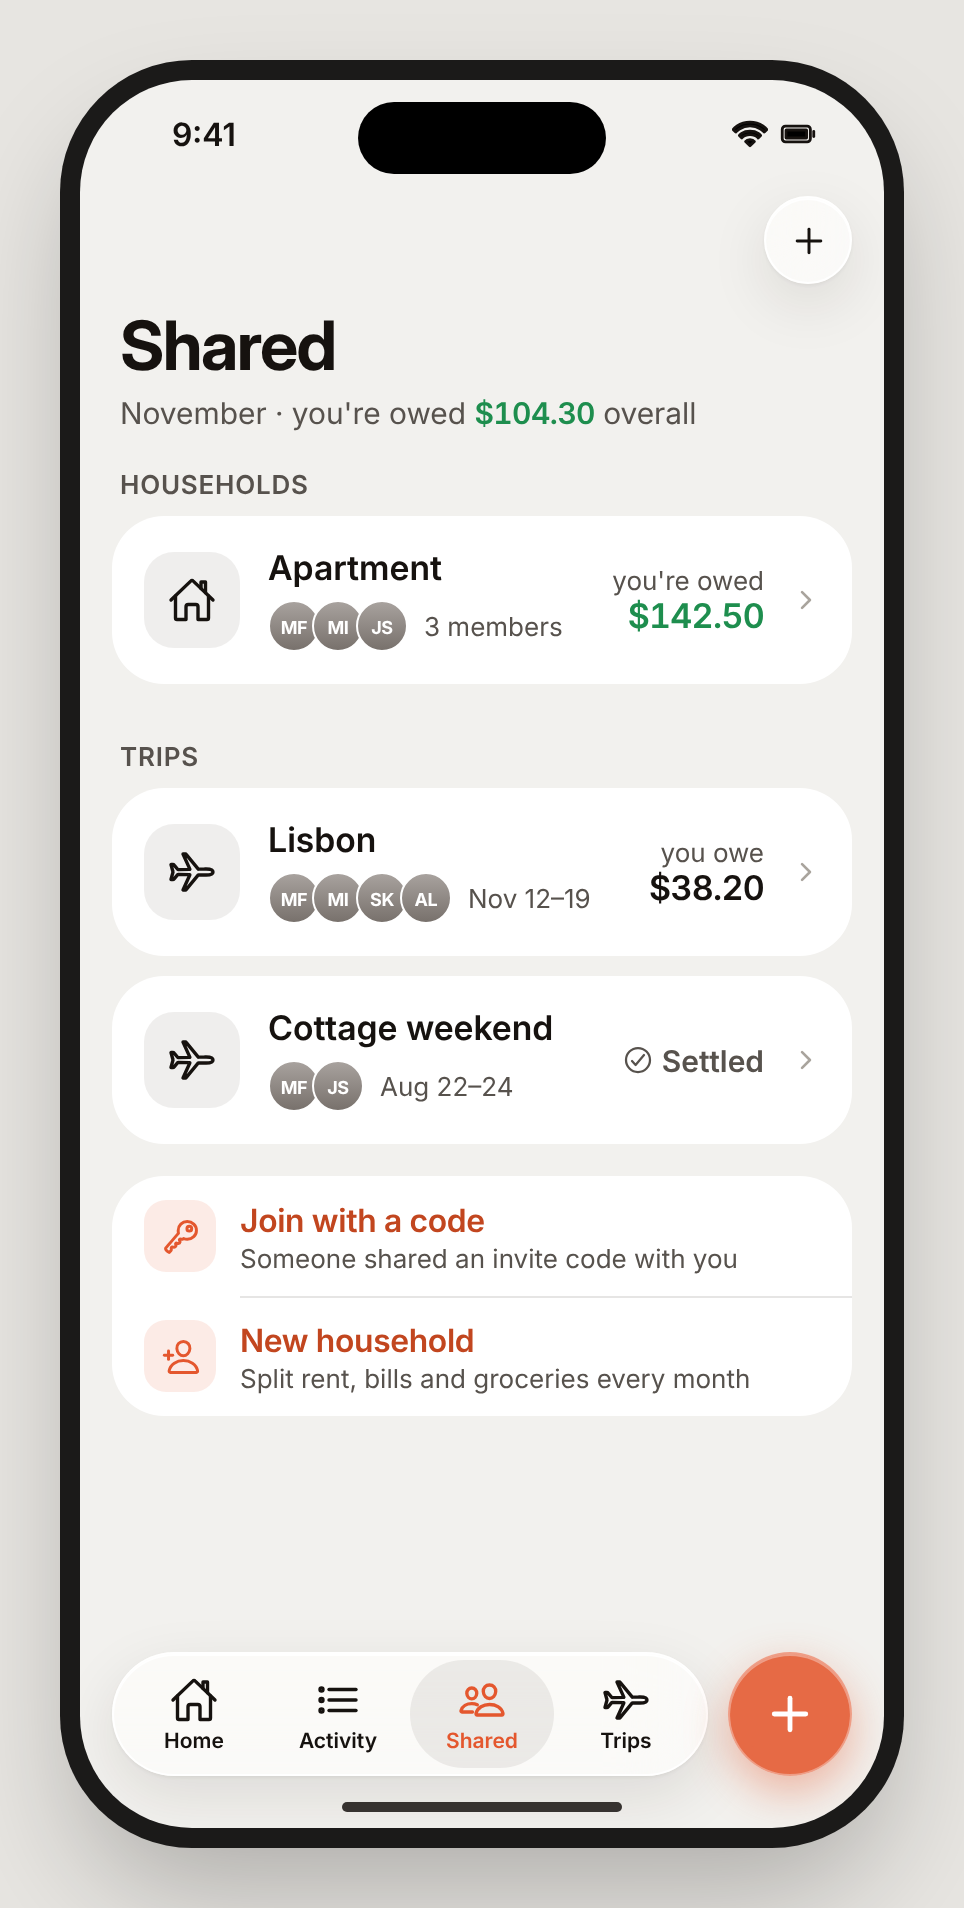
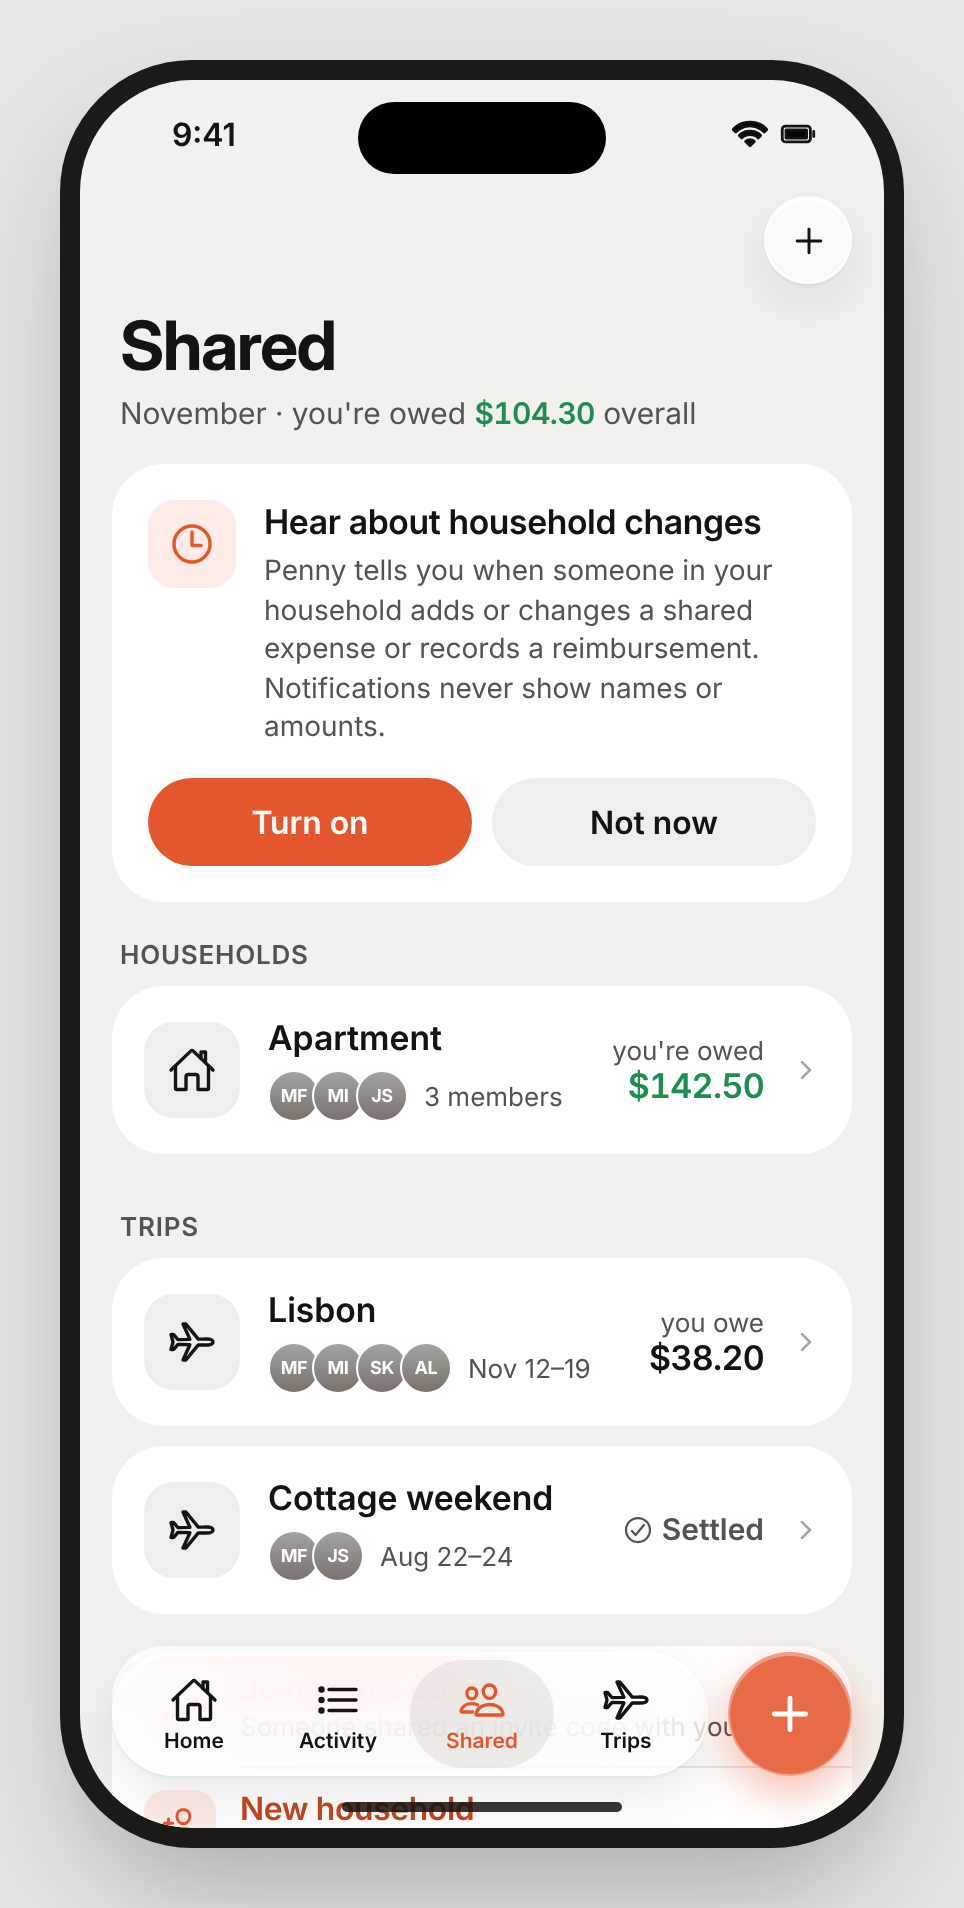
feat(ios): open shared schedules over their household and capture the drafted cards
Recurring opens a shared schedule's form over its household, as the web's
?rule= does, and pauses or stops it with a swipe. The Cards plan gains
captures for the shared expense detail, join with a code, the invite and
the personal trip and its share sheet. iphone-payment-stale and
iphone-shared-list are re-rendered after the owner's card changes.

diff --git a/apps/ios/Packages/PennyKit/Sources/PennyUI/Organize/RecurringViews.swift b/apps/ios/Packages/PennyKit/Sources/PennyUI/Organize/RecurringViews.swift
@@ -7,7 +7,7 @@ import SwiftUI
 /// date and account. Tapping a row opens its page; swiping pauses, resumes or removes it
 /// (removal asks first); + adds a schedule. Shared schedules the account is part of (MAZ-198)
 /// sit with the expenses, marked Shared with the household's name and the account's share, and
-/// open their form here (MAZ-256), since the household page lists only the expenses they add.
+/// open their household with their form (MAZ-256: the household page no longer lists them).
 struct RecurringListView: View {
     @Environment(ShellModel.self) private var shell
     @State private var selection: ScheduleSelection?
@@ -15,8 +15,7 @@ struct RecurringListView: View {
     @State private var removing: RecurringRule?
     @State private var addingSchedule = false
     @State private var failure: SaveFailure?
-    /// A shared schedule being edited, paused or stopped here (MAZ-256).
-    @State private var editingShared: SharedSchedule?
+    /// A shared schedule being paused or stopped here (MAZ-256).
     @State private var stopping: SharedSchedule?
     @State private var sharedFailure: HouseholdFailure?
 
@@ -108,22 +107,21 @@ struct RecurringListView: View {
         } message: { schedule in
             Text("No more expenses are added to \(schedule.household.name) from it. Expenses it already added stay.")
         }
-        .sheet(item: $editingShared, onDismiss: { Task { shared = await shell.households.sharedSchedules() } }) {
-            schedule in
-            SharedScheduleEditor(schedule: schedule).environment(shell)
-        }
         .task { shared = await shell.households.sharedSchedules() }
         .accessibilityIdentifier("screen.recurring")
     }
 
     private func sharedRow(_ schedule: SharedSchedule) -> some View {
         Button {
-            editingShared = schedule
+            // Its household, with the schedule's form open over it (as the web's `?rule=`).
+            let household = schedule.household
+            shell.households.model(for: household.id)?.requestedRuleID = schedule.rule.id
+            shell.navigate { $0.open(household.trip == nil ? .household(id: household.id) : .trip(id: household.id)) }
         } label: {
             SharedScheduleRow(schedule: schedule, today: shell.today)
         }
         .buttonStyle(.plain)
-        // Edited here: the household's page lists the expenses a schedule adds, not the schedules.
+        // Paused or stopped from here too, as personal schedules are.
         .swipeActions(edge: .trailing, allowsFullSwipe: false) {
             Button("Stop repeating", systemImage: "trash", role: .destructive) { stopping = schedule }
                 .accessibilityIdentifier("sharedSchedule.\(schedule.rule.id).remove")
@@ -135,7 +133,7 @@ struct RecurringListView: View {
             .accessibilityIdentifier("sharedSchedule.\(schedule.rule.id).toggle")
         }
         .cardRow()
-        .accessibilityHint("Opens the repeating expense")
+        .accessibilityHint(schedule.household.trip == nil ? "Opens the household" : "Opens the trip")
         .accessibilityIdentifier("sharedSchedule.\(schedule.rule.id)")
     }
 
@@ -202,7 +200,7 @@ struct RecurringListView: View {
 
     static func footer(hasShared: Bool) -> String {
         let personal = "Swipe a schedule to pause or remove it. Removing keeps past entries."
-        return hasShared ? personal + " Shared schedules count only your share; open one to change it." : personal
+        return hasShared ? personal + " Shared schedules open their household and count only your share." : personal
     }
 
     static func sectionTitle(_ kind: EntryKind) -> String { OrganizeText.kindPlural(kind) }
@@ -637,30 +635,5 @@ struct ScheduleDetailView: View {
     static func longDate(_ date: CalendarDate, today: CalendarDate) -> String {
         let format = Date.FormatStyle.dateTime.weekday(.abbreviated).month(.abbreviated).day()
         return DayText.date(date).formatted(date.days(since: today) < 365 ? format : format.year())
-    }
-}
-
-/// A shared schedule's form, opened from Recurring (MAZ-256): its household is read first, so
-/// the form knows the members and the viewer's part.
-private struct SharedScheduleEditor: View {
-    @Environment(ShellModel.self) private var shell
-    let schedule: SharedSchedule
-    @State private var model: HouseholdModel?
-
-    var body: some View {
-        Group {
-            if let model, model.household != nil {
-                SharedExpenseFormSheet(request: .rule(schedule.rule), model: model)
-            } else if let failure = model?.load.failure {
-                PennyStateView(.error, title: "Couldn't open \(schedule.household.name)", message: failure.message)
-            } else {
-                PennyStateView(.loading, title: "Opening \(schedule.household.name)…")
-            }
-        }
-        .task {
-            guard let loaded = shell.households.model(for: schedule.household.id) else { return }
-            if loaded.household == nil { await loaded.refresh() }
-            model = loaded
-        }
     }
 }

diff --git a/apps/ios/PennyUITests/Cards/CardCaptureTests.swift b/apps/ios/PennyUITests/Cards/CardCaptureTests.swift
@@ -345,6 +345,55 @@ final class CardCaptureTests: CardTestCase {
         }
     }
 
+    // MARK: iPhone drafted household and trip cards (MAZ-238, built in MAZ-256)
+
+    @MainActor
+    func test_whenSeeded_IphoneSharedExpenseDetail_ShouldBeCaptured() async throws {
+        try await card("iphone-shared-expense-detail") { card in
+            let seed = try card.seeded()
+            try card.penny.openHousehold(seed.household("maison"))
+            try card.penny.tap(
+                Households.expense(seed.expense("internet")), opening: AccessibilityID.Screen.householdExpense)
+            try card.penny.wait(for: Households.share(seed.userIDs["bea"] ?? ""), timeout: 20)
+        }
+    }
+
+    @MainActor
+    func test_whenSeeded_IphoneJoinCode_ShouldBeCaptured() async throws {
+        try await card("iphone-join-code") { card in
+            try card.penny.openShared()
+            try card.penny.tap(Households.join, opening: Households.Screen.start)
+            // The card's typed code; the keyboard is platform chrome.
+            try card.penny.type("7F3A9C01B2", into: Households.code)
+        }
+    }
+
+    @MainActor
+    func test_whenSeeded_IphoneInvite_ShouldBeCaptured() async throws {
+        try await card("iphone-invite") { card in
+            try card.penny.openHousehold(card.seeded().household("maison"))
+            try card.penny.tap(Households.invite, orIn: Households.more, opening: Households.Screen.invite)
+            try card.penny.wait(for: Households.inviteQR, timeout: 20)
+        }
+    }
+
+    @MainActor
+    func test_whenSeeded_IphoneTripPersonal_ShouldBeCaptured() async throws {
+        try await card("iphone-trip-personal") { card in
+            try card.penny.openTrips()
+            try card.penny.tap(AccessibilityID.Row.trip("t-quebec"), opening: AccessibilityID.Screen.trip)
+        }
+    }
+
+    @MainActor
+    func test_whenSeeded_IphoneTripShare_ShouldBeCaptured() async throws {
+        try await card("iphone-trip-share") { card in
+            try card.penny.openTrips()
+            try card.penny.tap(AccessibilityID.Row.trip("t-quebec"), opening: AccessibilityID.Screen.trip)
+            try card.penny.tap(Trips.share, opening: Trips.Screen.share)
+        }
+    }
+
     // MARK: iPhone trips
 
     @MainActor

diff --git a/apps/ios/Packages/PennyKit/Sources/PennyUI/Households/HouseholdView.swift b/apps/ios/Packages/PennyKit/Sources/PennyUI/Households/HouseholdView.swift
@@ -265,6 +265,8 @@ struct HouseholdPage: View {
                     await refreshTrip()
                 }
             }
+            // A schedule opened from Recurring: its form, once the rules have been read.
+            .onChange(of: "\(model.requestedRuleID ?? "")|\(model.rules.count)", initial: true) { openRequestedRule() }
             .navigationTitle(model.household?.name ?? (isTrip ? "Trip" : "Household"))
             .toolbar {
                 // `iphone-shared`: no title over the hero, which already leads with the name. Balances
@@ -469,6 +471,12 @@ struct HouseholdPage: View {
         } else {
             form = .new
         }
+    }
+
+    private func openRequestedRule() {
+        guard let id = model.requestedRuleID, let rule = model.rules.first(where: { $0.id == id }) else { return }
+        model.requestedRuleID = nil
+        if !model.isReadOnly { form = .rule(rule) }
     }
 
     private func refreshTrip() async {

diff --git a/apps/ios/Packages/PennyKit/Tests/PennyUIModuleTests/OrganizeFormTests.swift b/apps/ios/Packages/PennyKit/Tests/PennyUIModuleTests/OrganizeFormTests.swift
@@ -503,9 +503,7 @@ struct OrganizeFormTests {
         #expect(timing.hasPrefix("Monthly · next ") && !timing.contains("Apartment"))
         #expect(
             ScheduleText.sharedRow(shared("stream", next: "2026-11-12"), today: Self.today) == "\(timing) · Apartment")
-        #expect(
-            RecurringListView.footer(hasShared: true).hasSuffix(
-                "Shared schedules count only your share; open one to change it."))
+        #expect(RecurringListView.footer(hasShared: true).hasSuffix("open their household and count only your share."))
         #expect(!RecurringListView.footer(hasShared: false).contains("Shared"))
         #expect(RecurringListView.subtitle == "Penny records these on their date.", "the card's subtitle")
     }

diff --git a/apps/ios/Packages/PennyKit/Sources/PennyData/Households/HouseholdModels.swift b/apps/ios/Packages/PennyKit/Sources/PennyData/Households/HouseholdModels.swift
@@ -180,6 +180,9 @@ public final class HouseholdModel {
     /// Each past month still waiting for payments, other than the one on screen, with its own
     /// suggestions, newest first (`iphone-shared-balances` lists them under the month's own).
     public private(set) var overdueRecaps: [WireMonthRecap] = []
+    /// A repeating expense to open over the page once it shows: Recurring opens a shared
+    /// schedule in its household (MAZ-256), since the page lists the expenses, not the schedules.
+    public var requestedRuleID: String?
     /// The newest code this device created, while it is valid.
     public private(set) var invite: WireInvite?
     /// When the invite stops working, on this device's clock: it arrived with the server's

diff --git a/docs/reference/redesign.md b/docs/reference/redesign.md
@@ -116,7 +116,15 @@ Expected differences that need no entry: SF Pro and SF Symbols on iOS, Inter and
 - **Local-first saving.** A save is kept on the device first. A failed upload shows **Couldn't sync** with Retry, not **Couldn't save** in the form (`iphone-save-error`). The saved toast appears on the local save, before the upload (`iphone-saved-toast`).
 - **Names are emails.** Members carry only an email, so households show emails and initials from the email, as on the web.
 - **Settings** has no Notifications row: notifications follow the system permission, and the shared list asks for it once (**Hear about household changes**).
+<<<<<<< HEAD
 - **Households and shared trips (MAZ-181).** The household page leads with its members, its name and the month's balance in its meaning color, as on `iphone-shared`. The cards show one month and no way to change it; on iOS the month is chosen in the Expenses and Balances section headers (the card's "November … total" row, with previous and next), so past months and their overdue payments stay reachable. Invite someone is the toolbar's person button, as on the cards, and opens the invite with its QR code. Under People the creator's invite card shows **Create invite code** until asked, then the code with its countdown, Copy, Share and New code, as on the web: a new code replaces the one already shared, so opening People never makes one. A shared trip leads with the trip total and your share (your shares plus your private expenses on it, the same number as the Trips list's Your share so far) instead of a month balance, and keeps **Trip expense** under it on iPhone, where the card relies on Add entry. In the shared expense form, Paid by and the split with each person's share are in the form above the keypad, as on the card; the keypad stays visible on iPhone (see Real keyboard and focus in [visual acceptance](../design/visual-acceptance.md#design-gaps)), and amounts or percentages are typed in the Split sheet (Edit shares). An equal split includes everyone on the expense's date, so it has no checkboxes. A refused payment (Payment changed) names its real cause and lists only the values that changed, as on the web (MAZ-176): when the same share was recorded first, often on another device, it shows the share's status instead of the card's total and share.
+||||||| parent of fd8ed73 (feat(ios): open shared schedules over their household and capture the drafted cards)
+- **Households and shared trips (MAZ-181).** The household page leads with its members, its name and the month's balance in its meaning color, as on `iphone-shared`. The cards show one month and no way to change it; on iOS the month is chosen in the Expenses and Balances section headers (the card's "November … total" row, with previous and next), so past months and their overdue payments stay reachable. Invite someone is the toolbar's person button, as on the cards, and opens the invite with its QR code. Under People the creator's invite card shows **Create invite code** until asked, then the code with its countdown, Copy, Share and New code, as on the web: a new code replaces the one already shared, so opening People never makes one. A shared trip leads with the trip total and your share (your shares plus your private expenses on it, the same number as the Trips list's Your share so far) instead of a month balance, and keeps **Trip expense** under it on iPhone, where the card relies on Add entry. In the shared expense form, Paid by and the split with each person's share are in the form above the keypad, as on the card; the keypad stays visible on iPhone (see Real keyboard and focus in [visual acceptance](../design/visual-acceptance.md#design-gaps)), and amounts or percentages are typed in the Split sheet (Edit shares). An equal split includes everyone on the expense's date, so it has no checkboxes. A refused payment (Payment changed) names its real cause and lists only the values that changed, as on the web (MAZ-176): when the same share was recorded first, often on another device, it shows the share's status instead of the card's total and share.
+- **Shared trips in More details.** The Trip list adds the shared trips you're on below your personal trips (MAZ-180), each with "Shared · N people", because picking one moves the expense to that trip's shared form; the card shows only trip names.
+=======
+- **Invite code on request (MAZ-256, decided by the owner 2026-11-20).** Under People, the creator's invite card shows **Create invite code** until asked, instead of the code `iphone-shared-people` draws, because a new code replaces the one already shared: opening People never makes one. Once asked, it shows the code with its countdown, Copy and Share, as on the card.
+- **Shared trips in More details.** The Trip list adds the shared trips you're on below your personal trips (MAZ-180), each with "Shared · N people", because picking one moves the expense to that trip's shared form; the card shows only trip names.
+>>>>>>> fd8ed73 (feat(ios): open shared schedules over their household and capture the drafted cards)
 - **Recurring subtitle spacing (MAZ-236, decided by the owner 2026-11-19).** Recurring keeps the system large title instead of redrawing it, so the subtitle ("Penny records these on their date.") sits about 20 points lower than on `iphone-recurring`: the list starts below the system's large-title area.
 - **Home's calendar and settings buttons (MAZ-254, decided by the owner 2026-11-20).** On iPhone, Home's calendar and settings are two buttons in the toolbar's trailing group, which iOS draws as one grouped Liquid Glass capsule, not the cards' two separate circles. This is the system's own toolbar grouping; Penny draws no capsule of its own.
 

diff --git a/.design-sync/NOTES.md b/.design-sync/NOTES.md
@@ -36,6 +36,7 @@
 - **Settings in the demo sidebar (MAZ-283, owner decision):** `web/demo.html` keeps the Settings button at the end of the sidebar footer beside "Demo · Sample data", as on the account footer, because on the web it is the only way into Settings. No kit change. Push the card at the next re-sync.
 - **Overspent Home, the offline shared banner and iPad Add entry (MAZ-254, owner decisions):** the new `iphone/home-overspent.html` is Home with a negative Left to spend and "$283.35 more went out than came in" under it; `iphone/offline.html` adds the amber "Shared expenses may be missing" banner (the `shared-missing` card's styles) under the Offline banner; `ipad/activity.html` and `ipad/settings.html` add the copper "+ Add entry" capsule at the trailing end of their toolbar, as `ipad-home` has. No kit change. Push the four cards at the next re-sync.
 - **Shared trips in More details (MAZ-255, owner decision):** `iphone/entry-extras.html` lists a shared trip ("Tokyo spring", "Shared · 3 people") below the personal trips, as the apps do: picking one moves the expense to that trip's shared form. No kit change. Push the card at the next re-sync.
+- **Payment changed and the Shared list prompt (MAZ-256, owner decisions):** `iphone/payment-stale.html` shows what the apps show: the real cause ("You already recorded Mira's share as paid after you opened this payment, maybe on another device…") and only what changed (Mira's share status, Recorded by you), instead of an edit's total and share. `iphone/shared-list.html` adds the "Hear about household changes" prompt above the households, in `iphone/notifications-prompt.html`'s styles. The kit's `contracts/design-baseline.json` gains a `monogram` token (the `.avatar` gradient, #A8A29E to #78716C, with white initials), which `penny.css` and `design-kit/src/styles.css` already draw. No kit change. Push the two cards at the next re-sync.
 
 ## Re-sync risks
 - **Do the whole re-sync in one change:** after a card or kit change, re-render the baselines (`node docs/design/penny-ios/render.mjs 2`), update the hashes in `contracts/design-baseline.json` (`npm run design:hashes` in `apps/web`), re-sync this project, and update the affected verdicts in `contracts/visual-comparisons.json`. The steps are in [visual acceptance](../docs/design/visual-acceptance.md#re-sync-after-a-design-change); `npm run test:core` and the web workflow fail on a stale baseline or hash.
